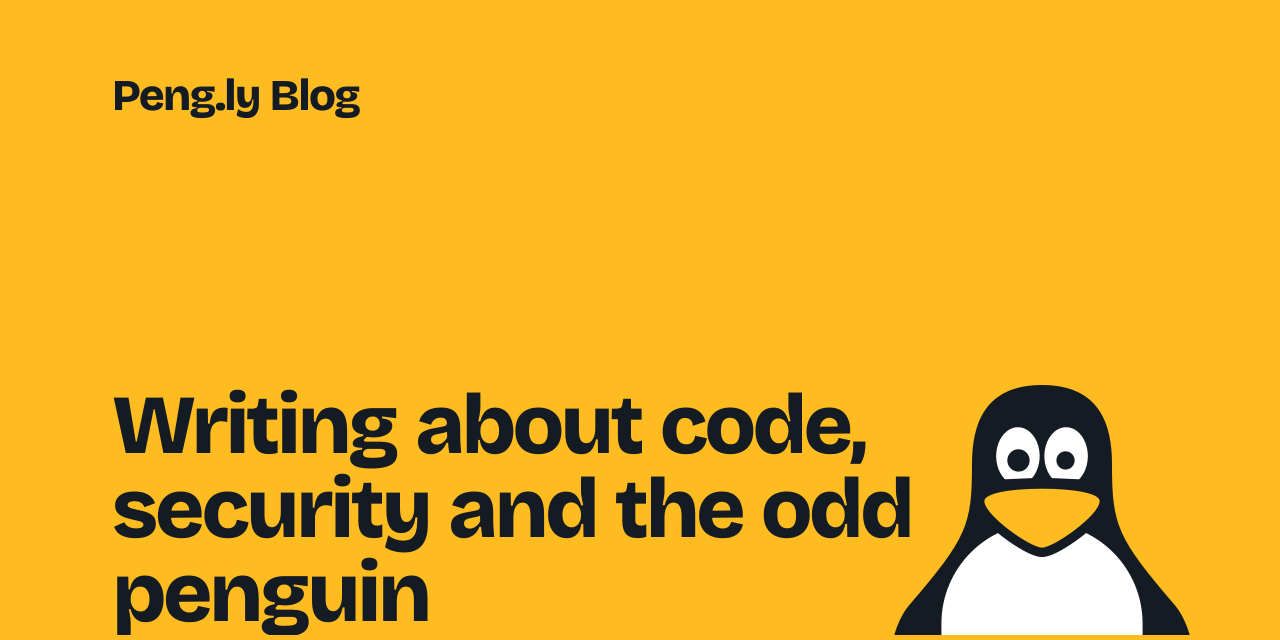
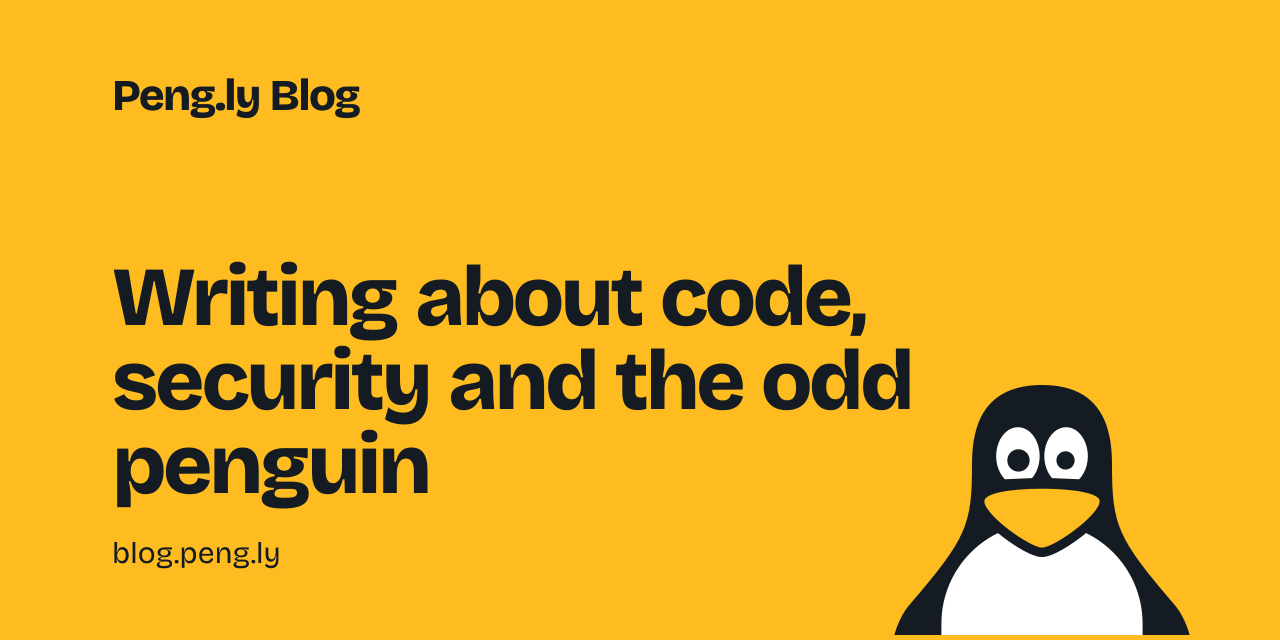
fix: keep the share card's title and date on the card

Changed region(s): [[0.0938, 0.4062, 0.7188, 1.0]]

diff --git a/src/lib/og.ts b/src/lib/og.ts
@@ -34,8 +34,9 @@ export async function ogImage(title: string, footnote: string) {
         display: 'flex',
         flexDirection: 'column',
         justifyContent: 'space-between',
-        width: '100%',
-        height: '100%',
+        boxSizing: 'border-box',
+        width: 1200,
+        height: 630,
         padding: '64px 72px',
         background: site.color,
         color: ink,
